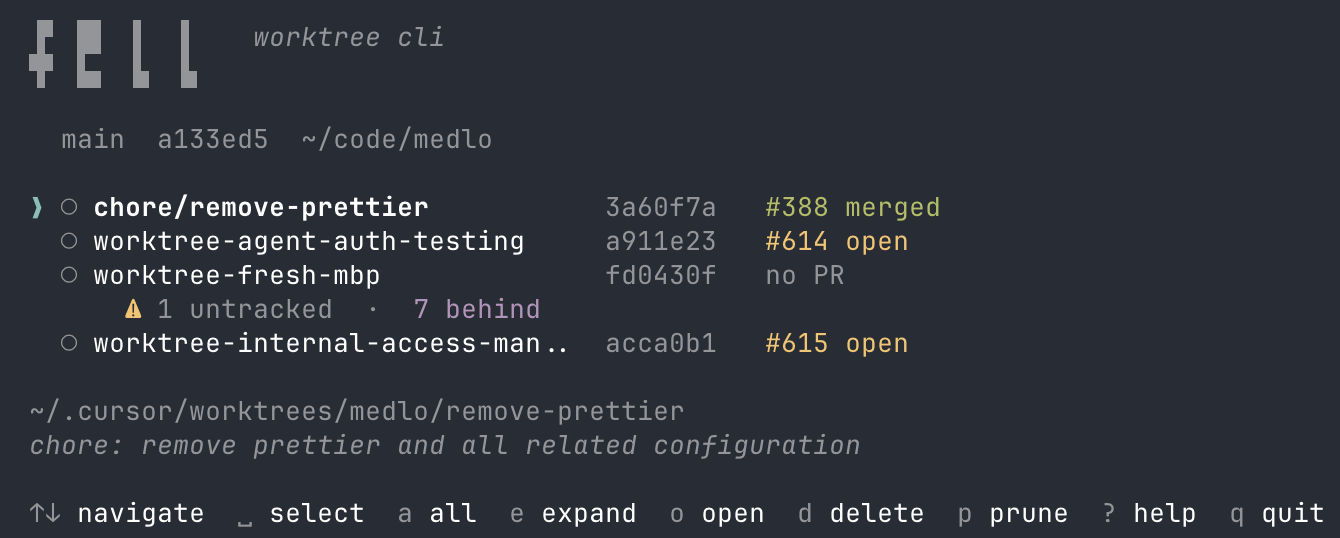
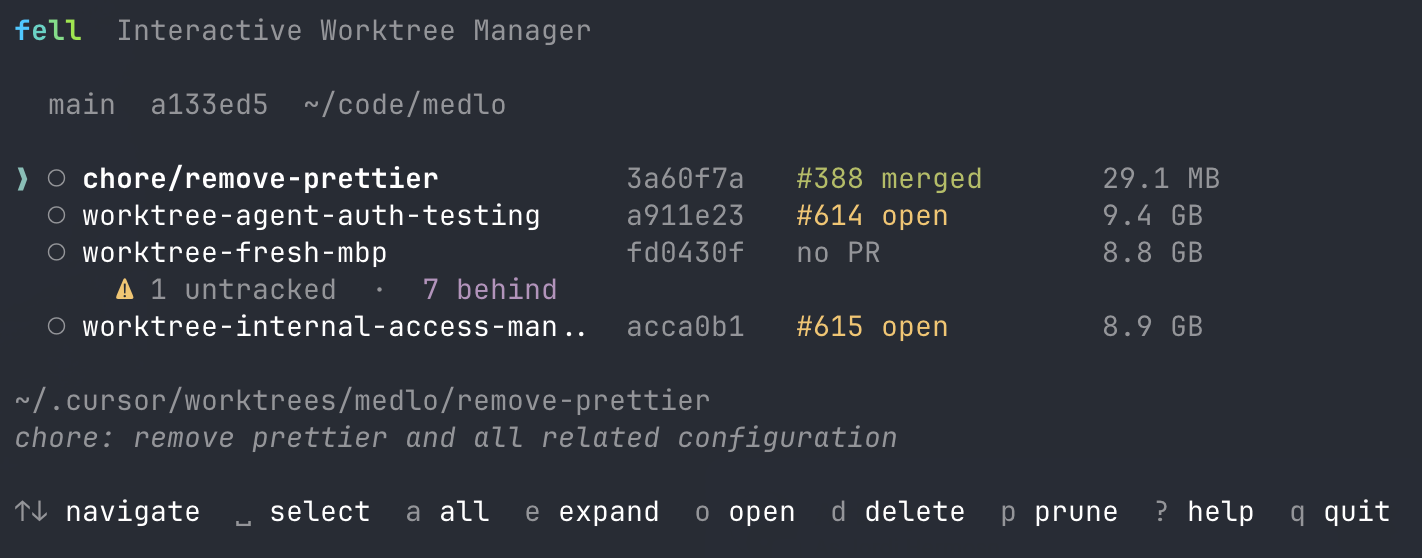
estimate file size

diff --git a/cli.ts b/cli.ts
@@ -22,12 +22,15 @@ import {
   fetchPrForBranch,
   fetchWorktreeFileStatus,
   fetchWorktreeFileList,
+  fetchDirectorySize,
+  formatBytes,
   openDirectory,
   checkGhStatus,
   type Worktree,
   type PrStatus,
   type FileStatusResult,
   type FileEntry,
+  type DirSize,
   type GhDiagnostic,
 } from "./lib/git"
 import {
@@ -41,6 +44,7 @@ import {
   shortenPath,
   formatPrStatus,
   formatFileStatus,
+  fellLogo,
   renderHelpLines,
   printCliHelp,
   type Key,
@@ -54,6 +58,7 @@ interface WorktreeItem {
   worktree: Worktree
   prStatus: PrStatus
   fileStatus: FileStatusResult
+  dirSize: DirSize
 }
 
 /** Per-item progress entry for the deleting status line. */
@@ -157,7 +162,23 @@ function renderRow(
   // Pad branch column for alignment
   const branchPadded = pad(branchStr, BRANCH_COL + 2)
 
-  const mainLine = `  ${cursor} ${check} ${branchPadded}${sha}   ${pr}${tagStr}`
+  // Directory size column
+  let sizeStr: string
+  switch (item.dirSize.type) {
+    case "loading": {
+      const frame = SPINNER_FRAMES[state.spinnerFrame % SPINNER_FRAMES.length]
+      sizeStr = c.dim(`${frame} estimating`)
+      break
+    }
+    case "done":
+      sizeStr = c.dim(formatBytes(item.dirSize.bytes))
+      break
+    case "error":
+      sizeStr = ""
+      break
+  }
+
+  const mainLine = `  ${cursor} ${check} ${branchPadded}${sha}   ${pad(pr, 18)}${sizeStr}${tagStr}`
   const lines = [mainLine]
 
   // Sub-line: dirty file status with warning icon, indented under the branch name
@@ -203,12 +224,11 @@ function render(state: State): void {
 
   // Title bar
   lines.push("")
-  const selectedInfo =
+  const suffix =
     state.selected.size > 0
       ? `  ${c.lime(`${state.selected.size} selected`)}`
-      : `    ${c.dim(c.italic("worktree cli"))}`
-  lines.push(`  ${c.dim("▐▘ █▌ ▐  ▐")}${selectedInfo}`)
-  lines.push(`  ${c.dim("▜▘ ▙▖ ▐▖ ▐▖")}`)
+      : ""
+  lines.push(`  ${c.bold(fellLogo())}  ${c.dim("Interactive Worktree Cleanup")}${suffix}`)
   lines.push("")
 
   // Main worktree (always visible, non-interactive)
@@ -471,6 +491,7 @@ function startDelete(
     await refreshWorktrees(state)
     startPrFetching(state, rerender)
     startFileStatusFetching(state, rerender)
+    startSizeFetching(state, rerender)
 
     if (needsForce) {
       state.mode = {
@@ -503,6 +524,7 @@ async function refreshWorktrees(state: State): Promise<void> {
       worktree: w,
       prStatus: { type: "loading" as const },
       fileStatus: { type: "loading" as const },
+      dirSize: { type: "loading" as const },
     }))
 
   state.selected.clear()
@@ -643,6 +665,35 @@ function startFileStatusFetching(state: State, rerender: () => void): void {
 }
 
 // ---------------------------------------------------------------------------
+// Async directory size fetching (background, sequential)
+// ---------------------------------------------------------------------------
+
+/**
+ * Fetch directory sizes for all non-main worktrees in background.
+ * Runs sequentially (du is I/O heavy, parallel would thrash disk).
+ */
+function startSizeFetching(state: State, rerender: () => void): void {
+  ;(async () => {
+    for (let i = 0; i < state.items.length; i++) {
+      const item = state.items[i]
+      const path = item.worktree.path
+      try {
+        const result = await fetchDirectorySize(path)
+        // Guard against stale index
+        if (state.items[i]?.worktree.path === path) {
+          state.items[i].dirSize = result
+        }
+      } catch {
+        if (state.items[i]?.worktree.path === path) {
+          state.items[i].dirSize = { type: "error" }
+        }
+      }
+      rerender()
+    }
+  })()
+}
+
+// ---------------------------------------------------------------------------
 // Key handling
 // ---------------------------------------------------------------------------
 
@@ -742,6 +793,7 @@ async function handleBrowseKey(state: State, key: Key): Promise<void> {
     await refreshWorktrees(state)
     startPrFetching(state, () => render(state))
     startFileStatusFetching(state, () => render(state))
+    startSizeFetching(state, () => render(state))
     state.message = { text: "Refreshed.", kind: "success" }
     return
   }
@@ -848,6 +900,7 @@ async function handleConfirmPruneKey(state: State, key: Key): Promise<void> {
       await refreshWorktrees(state)
       startPrFetching(state, () => render(state))
       startFileStatusFetching(state, () => render(state))
+      startSizeFetching(state, () => render(state))
       state.mode = {
         type: "result",
         lines: [`${c.green("\u2713")} Stale references pruned.`],
@@ -877,8 +930,7 @@ async function printListAndExit(): Promise<void> {
   const ghDiagnostic = await checkGhStatus()
 
   console.log()
-  console.log(`  ${c.dim("▐▘ █▌ ▐  ▐")}  ${c.dim("--list")}`)
-  console.log(`  ${c.dim("▜▘ ▙▖ ▐▖ ▐▖")}`)
+  console.log(`  ${c.bold(fellLogo())}  ${c.dim("--list")}`)
   console.log()
 
   // Fetch file statuses for all worktrees concurrently
@@ -972,7 +1024,9 @@ function startSpinnerTimer(
 ): ReturnType<typeof setInterval> {
   return setInterval(() => {
     // Animate when there are loading statuses or an active delete in progress
-    const hasLoading = state.items.some((i) => i.prStatus.type === "loading")
+    const hasLoading = state.items.some(
+      (i) => i.prStatus.type === "loading" || i.dirSize.type === "loading",
+    )
     const isDeleting = state.mode.type === "deleting"
     if (hasLoading || isDeleting) {
       state.spinnerFrame =
@@ -1030,6 +1084,7 @@ async function main() {
       worktree: w,
       prStatus: { type: "loading" },
       fileStatus: { type: "loading" },
+      dirSize: { type: "loading" },
     })),
     mainWorktree,
     cursor: 0,
@@ -1079,9 +1134,10 @@ async function main() {
     // Initial render
     render(state)
 
-    // Start background PR fetching + file status checks
+    // Start background PR fetching, file status checks, and size estimation
     startPrFetching(state, () => render(state))
     startFileStatusFetching(state, () => render(state))
+    startSizeFetching(state, () => render(state))
 
     // Start spinner animation timer
     const spinnerTimer = startSpinnerTimer(state, () => render(state))

diff --git a/lib/git.ts b/lib/git.ts
@@ -238,6 +238,45 @@ export async function fetchWorktreeFileStatus(
   }
 }
 
+// ---------------------------------------------------------------------------
+// Directory size
+// ---------------------------------------------------------------------------
+
+export type DirSize =
+  | { type: "loading" }
+  | { type: "done"; bytes: number }
+  | { type: "error" }
+
+/**
+ * Get the total size of a directory using `du -sk`.
+ * Returns size in bytes. Uses -sk (kilobytes, no follow symlinks)
+ * to keep it fast -- avoids traversing linked node_modules twice.
+ */
+export async function fetchDirectorySize(
+  dirPath: string,
+): Promise<DirSize> {
+  const result = await $`du -sk ${dirPath}`.nothrow().quiet()
+  if (result.exitCode !== 0) return { type: "error" }
+
+  const kb = parseInt(result.stdout.toString().split("\t")[0], 10)
+  if (isNaN(kb)) return { type: "error" }
+
+  return { type: "done", bytes: kb * 1024 }
+}
+
+/** Format bytes into a human-readable string (e.g. "9.4 GB", "29 MB"). */
+export function formatBytes(bytes: number): string {
+  if (bytes < 1024) return `${bytes} B`
+  if (bytes < 1024 * 1024) return `${(bytes / 1024).toFixed(0)} KB`
+  if (bytes < 1024 * 1024 * 1024)
+    return `${(bytes / (1024 * 1024)).toFixed(1)} MB`
+  return `${(bytes / (1024 * 1024 * 1024)).toFixed(1)} GB`
+}
+
+// ---------------------------------------------------------------------------
+// File list (per-worktree)
+// ---------------------------------------------------------------------------
+
 /** A single file entry from git status with its change type. */
 export interface FileEntry {
   path: string

diff --git a/lib/tui.ts b/lib/tui.ts
@@ -29,6 +29,34 @@ export const c = {
   lime: (s: string) => `${CSI}38;5;154m${s}${CSI}0m`,
 } as const
 
+/**
+ * Apply a linear gradient across a string using 256-colour ANSI.
+ * Each character gets an interpolated colour between the start and end RGB values.
+ */
+export function gradient(
+  s: string,
+  from: [number, number, number],
+  to: [number, number, number],
+): string {
+  const len = s.length
+  if (len === 0) return s
+  return s
+    .split("")
+    .map((ch, i) => {
+      const t = len === 1 ? 0 : i / (len - 1)
+      const r = Math.round(from[0] + (to[0] - from[0]) * t)
+      const g = Math.round(from[1] + (to[1] - from[1]) * t)
+      const b = Math.round(from[2] + (to[2] - from[2]) * t)
+      return `${CSI}38;2;${r};${g};${b}m${ch}`
+    })
+    .join("") + `${CSI}0m`
+}
+
+/** Pre-built gradient for the "fell" brand text. Cyan -> lime. */
+export function fellLogo(): string {
+  return gradient("fell", [80, 200, 255], [160, 230, 80])
+}
+
 export const SPINNER_FRAMES = [
   "\u28CB", "\u28D9", "\u28F9", "\u28F8", "\u28FC", "\u28F4",
   "\u28E6", "\u28E7", "\u28C7", "\u28CF",
@@ -251,8 +279,7 @@ export function renderHelpLines(): string[] {
 
 export function printCliHelp(): void {
   console.log()
-  console.log(`  ${c.dim("▐▘ █▌ ▐  ▐")}  ${c.dim("Interactive git worktree manager")}`)
-  console.log(`  ${c.dim("▜▘ ▙▖ ▐▖ ▐▖")}`)
+  console.log(`  ${c.bold(fellLogo())}  ${c.dim("Interactive Worktree Cleanup")}`)
   console.log()
   console.log(c.yellow("  USAGE"))
   console.log()

diff --git a/README.md b/README.md
@@ -1,12 +1,11 @@
 ```
-   ▄▀▀         ▀▀█    ▀▀█   
- ▄▄█▄▄   ▄▄▄     █      █   
-   █    █▀  █    █      █   
-   █    █▀▀▀▀    █      █   
-   █    ▀█▄▄▀    ▀▄▄    ▀▄▄                             
+▗▞▀▀▘▗▞▀▚▖█ █ 
+▐▌   ▐▛▀▀▘█ █ 
+▐▛▀▘ ▝▚▄▄▖█ █ 
+▐▌        █ █                         
 ```
 
-*"To fell a tree."* 
+> *"To fell a tree."* 
 
 `fell` is a CLI tool that help's you actively manage, prune and delete worktrees.
 
